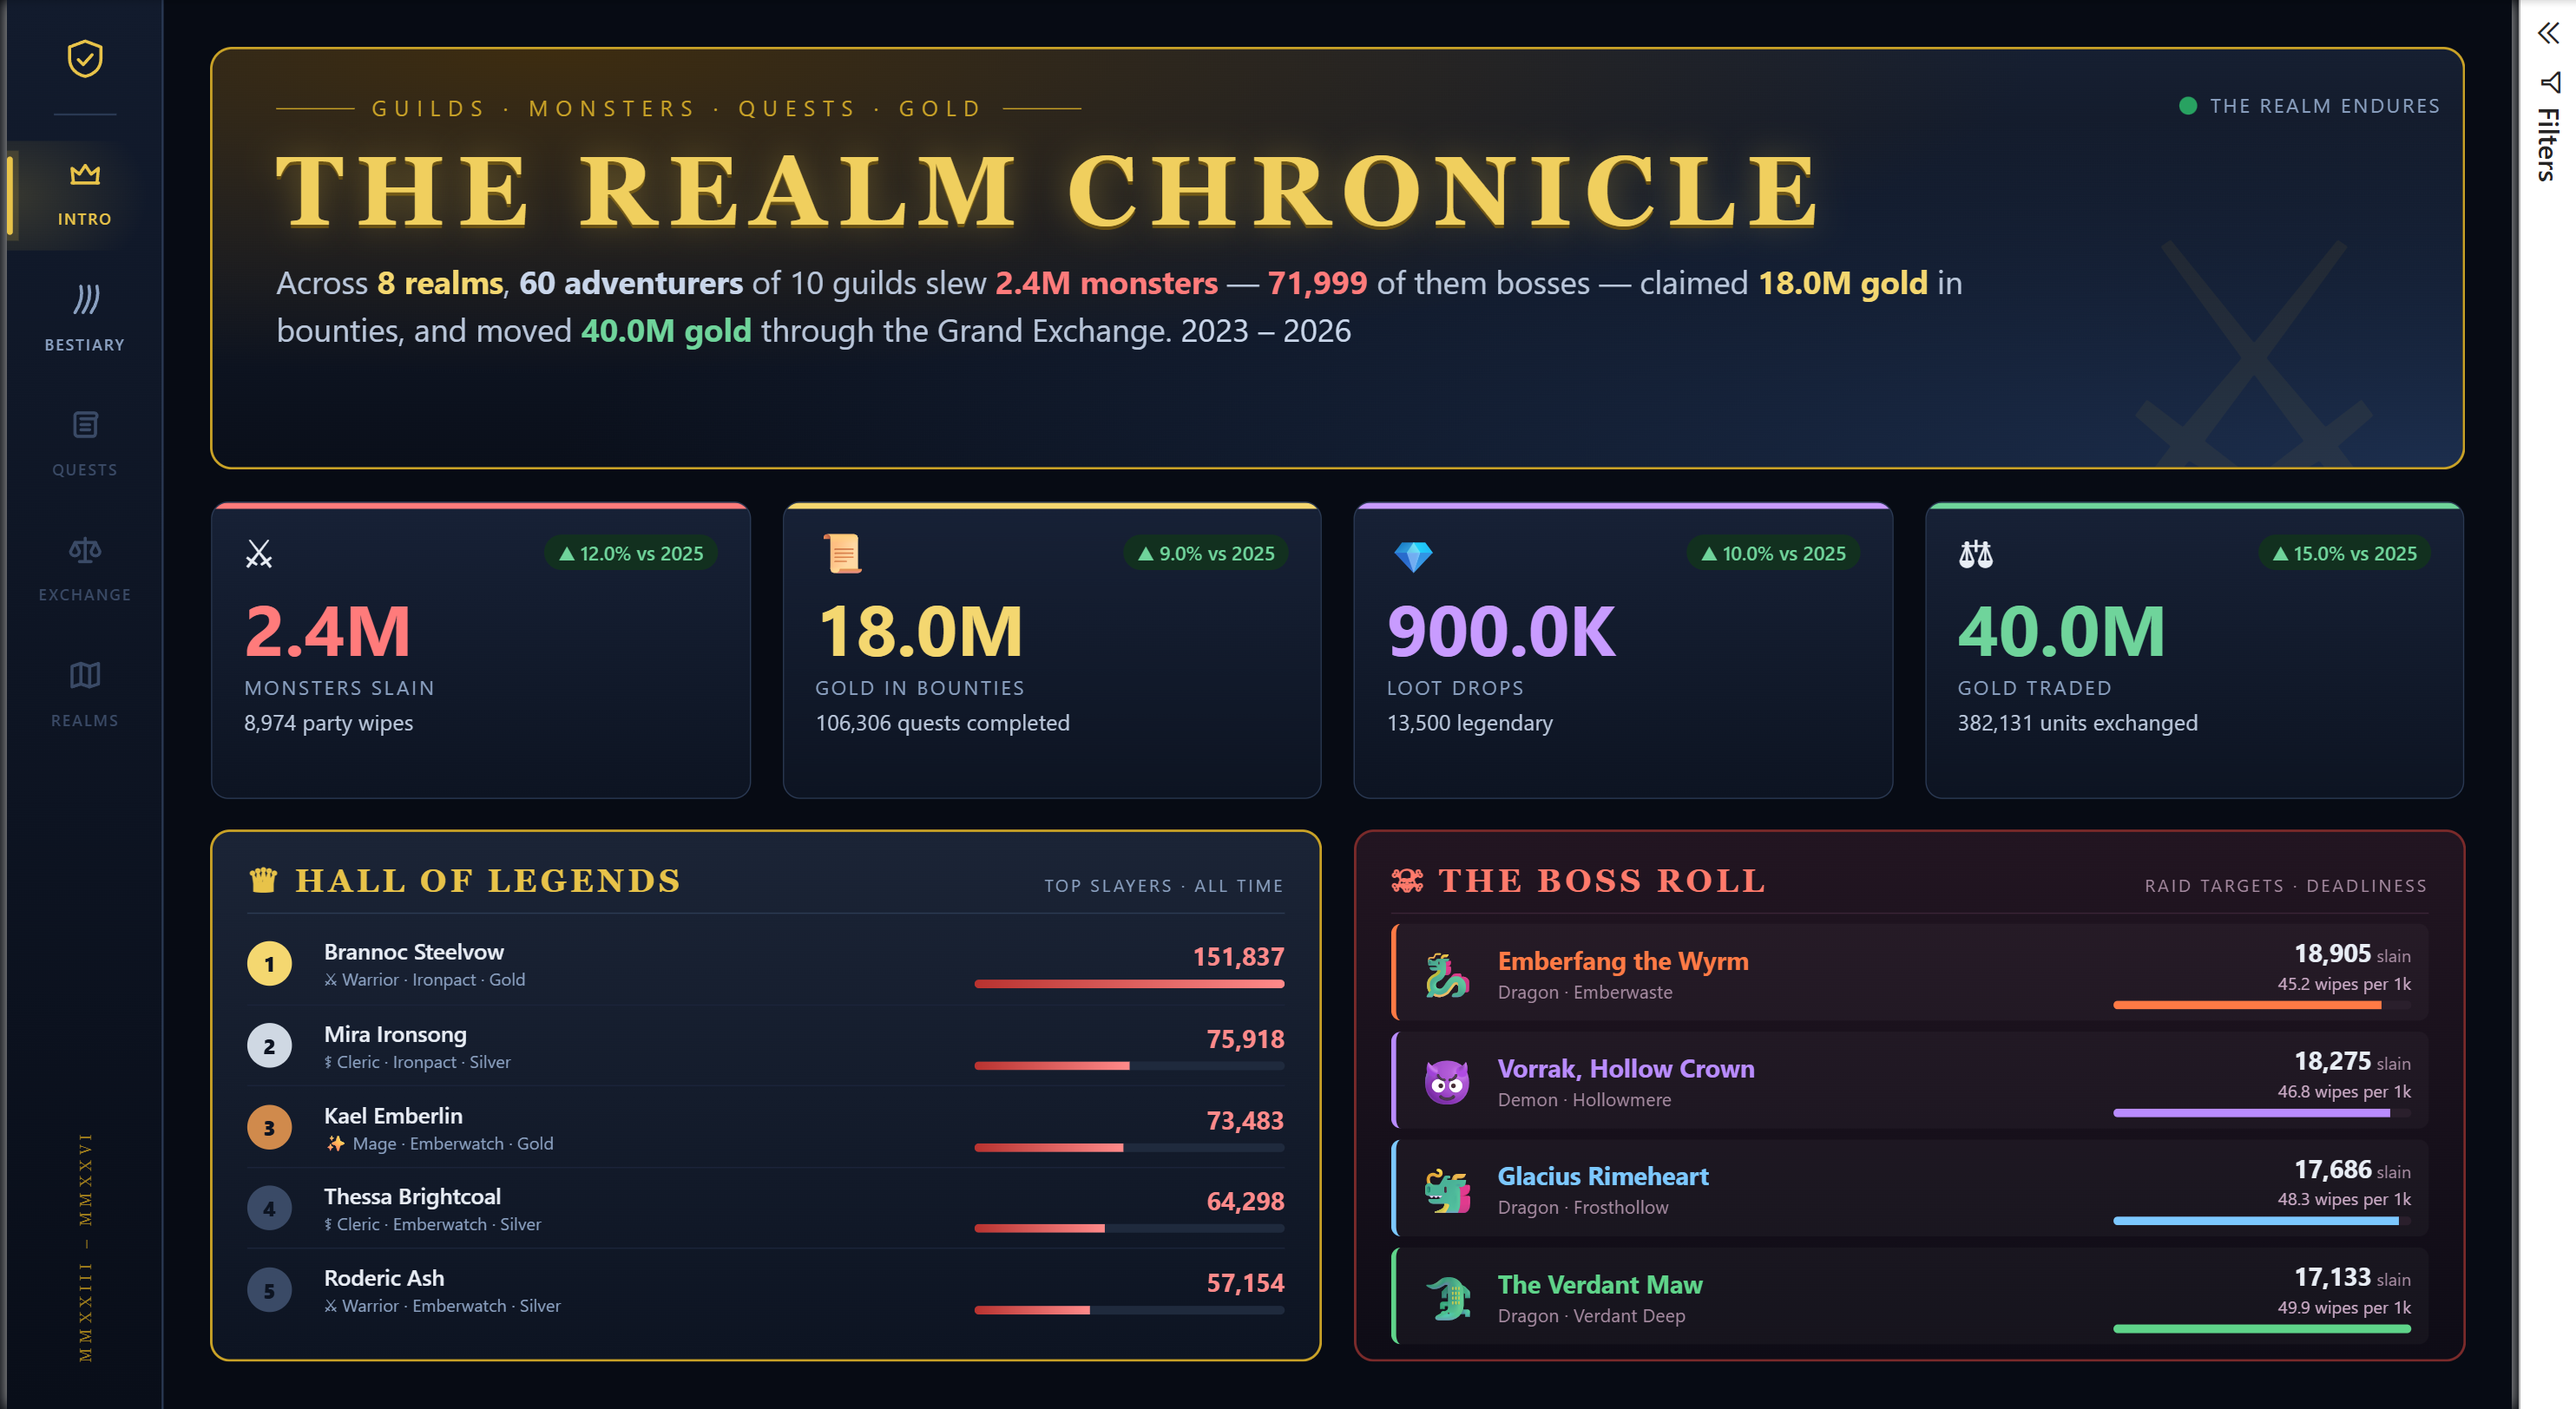
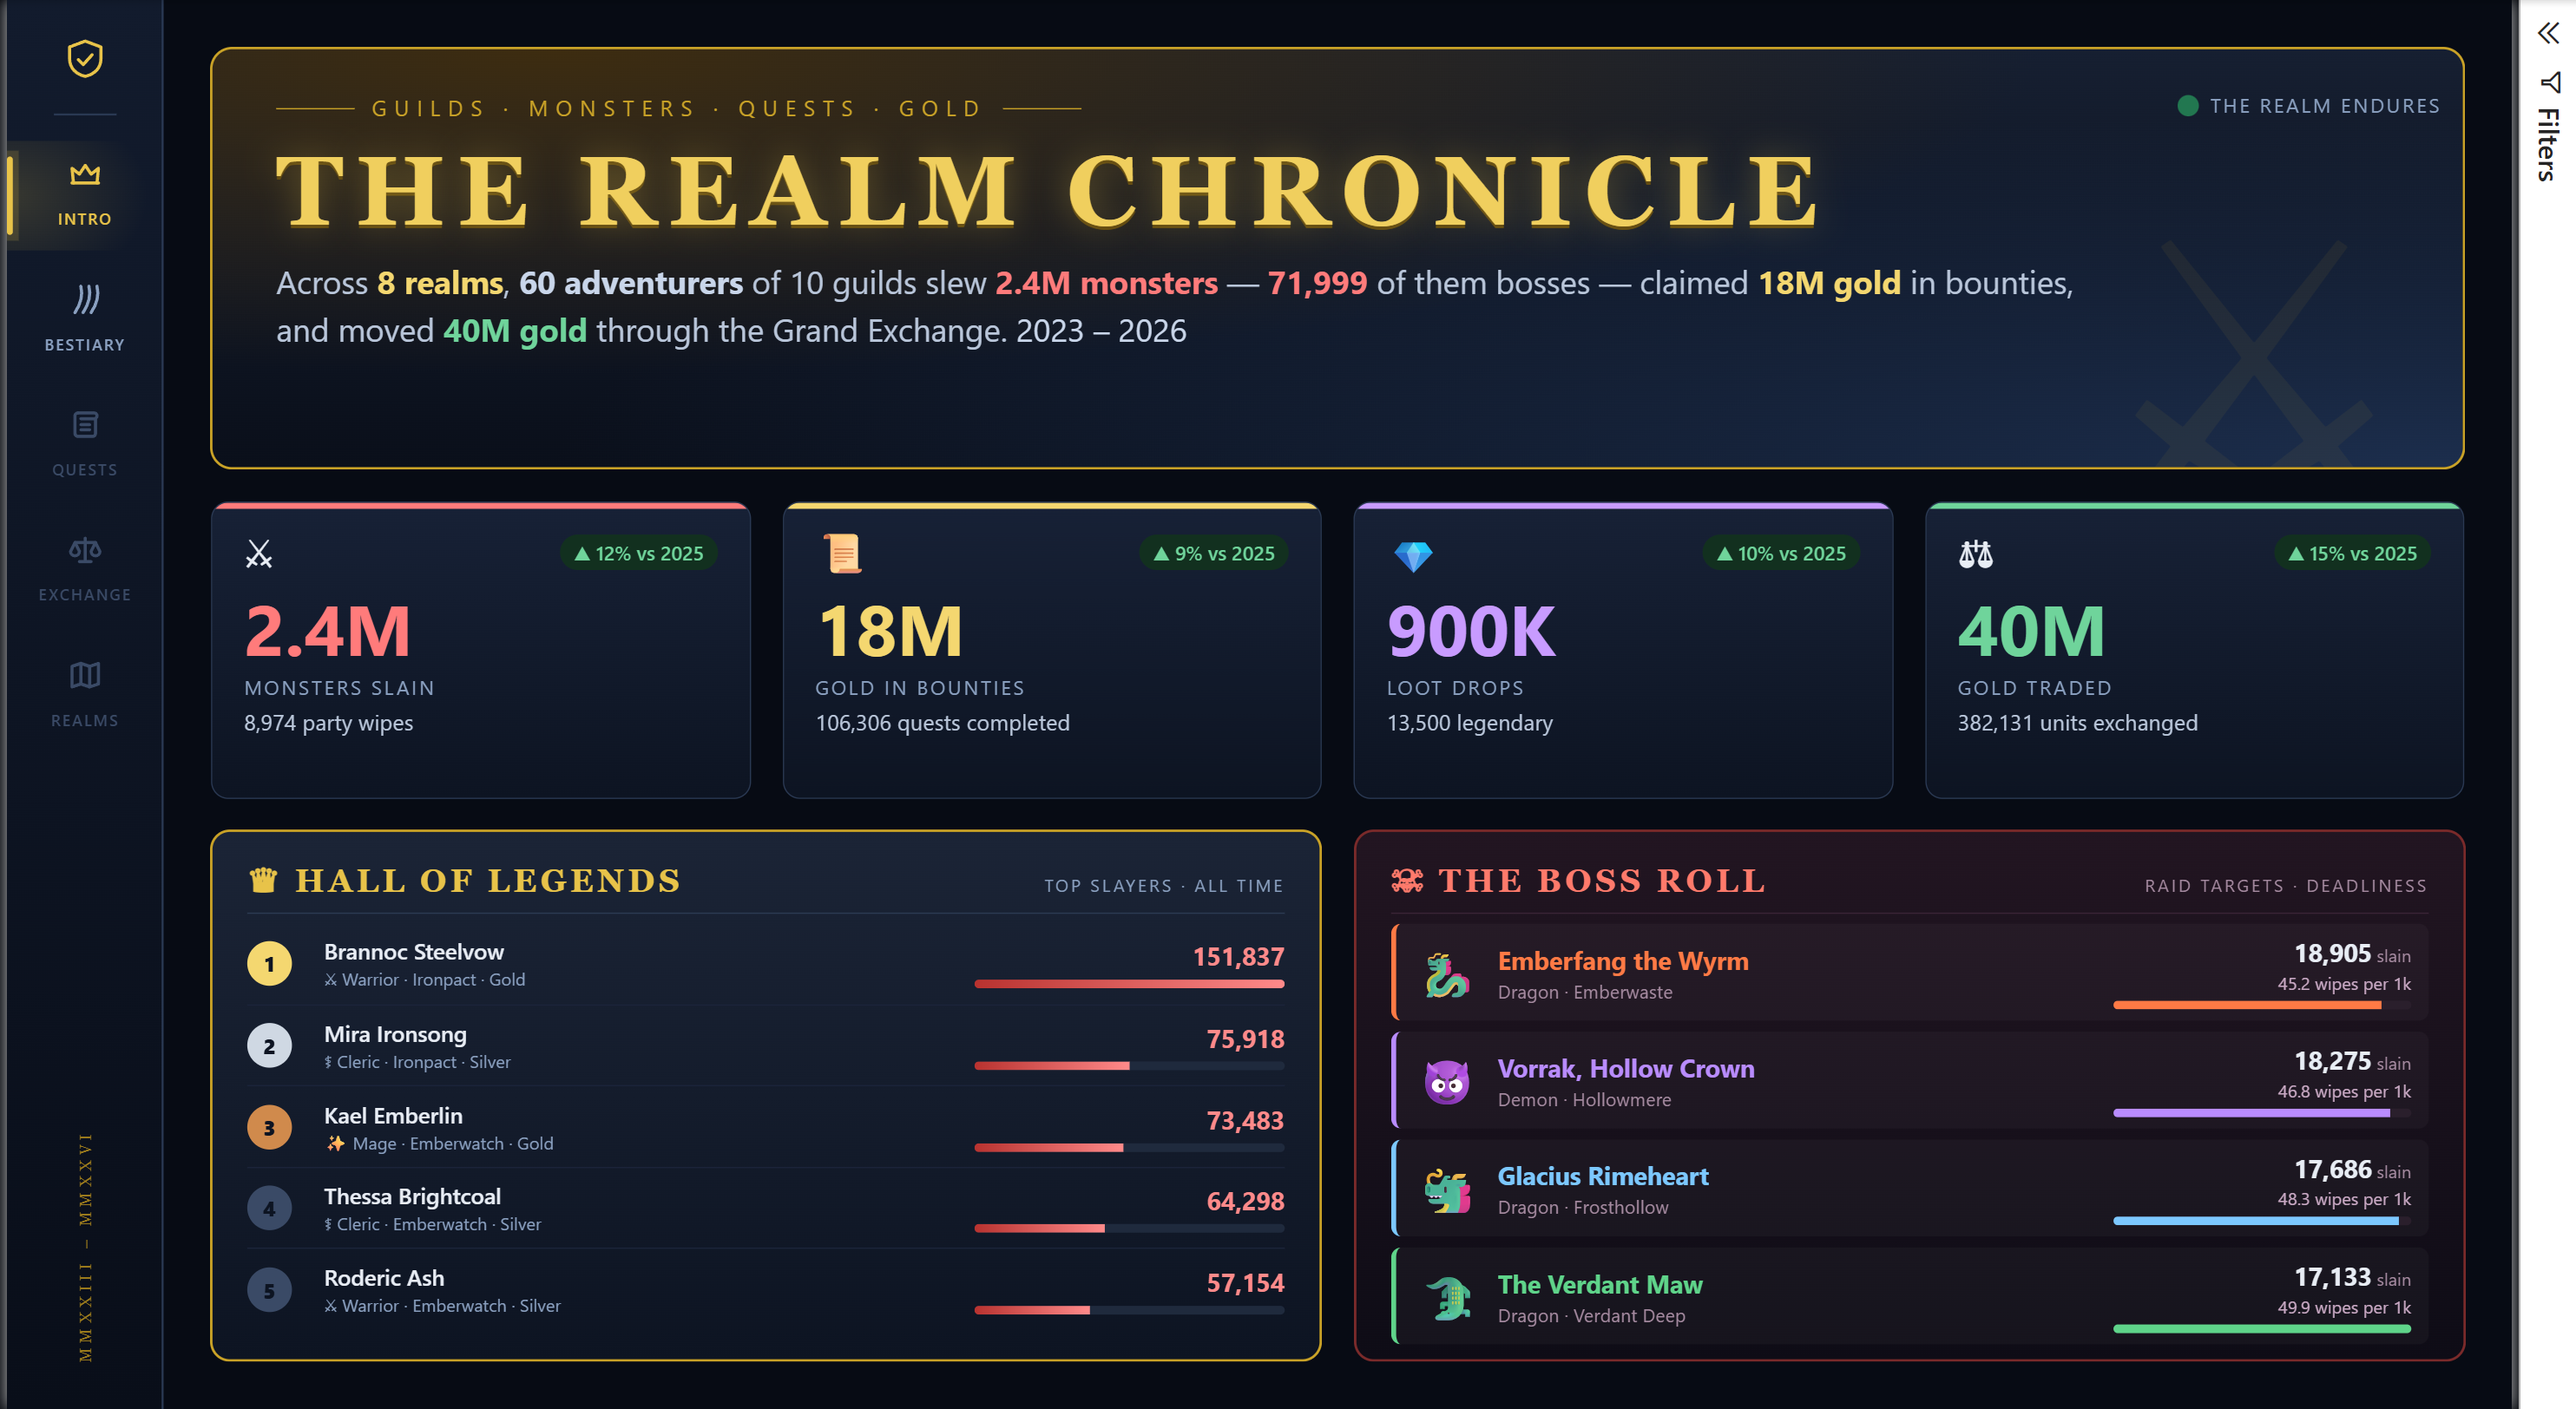
realm-chronicle: compact numbers without the meaningless .0
"900.0K" and "18.0M" read as noise. One rule, one helper (_tidy in
html_measures.py), used by every panel - hero sentence, ledger tiles, growth
chips, Bestiary header:
- a trailing .0 is dropped:   900.0K -> 900K, 18.0M -> 18M, 12.0% -> 12%
- a real decimal under 100 stays:  2.4M, 12.5%
- from 100 up in the unit it is whole:  136.8K -> 137K

The hero previously formatted its figures inline with "0.0"; it now goes
through the same helper, so no panel can drift from the rule.

Checked against the real totals before building and in the render after:
2.4M / 18M / 900K / 40M, chips 12% / 9% / 10% / 15%, Bestiary 2M / 360K / 72K.
Gate: pbir validate Valid, validate_pbip 0/0, lint-tmdl-traps clean.

diff --git a/power-bi/projects/realm-chronicle/build/html_measures.py b/power-bi/projects/realm-chronicle/build/html_measures.py
@@ -53,9 +53,18 @@ def _svg_open(w, h, rw, rh):
     ]
 
 
+def _tidy(e, pattern_one, pattern_whole):
+    """A number in a unit, without a meaningless trailing '.0': 900 not 900.0, 2.4 stays 2.4.
+    From 100 up in the unit it's whole (137K, not 136.8K) - a decimal there is noise."""
+    return (f'IF ( {e} >= 100, FORMAT ( {e}, "{pattern_whole}" ), '
+            f'IF ( ROUND ( {e}, 1 ) = INT ( ROUND ( {e}, 1 ) ), FORMAT ( ROUND ( {e}, 1 ), "{pattern_whole}" ), '
+            f'FORMAT ( {e}, "{pattern_one}" ) ) )')
+
+
 def _compact(v):
-    return (f'IF ( {v} >= 1000000, FORMAT ( {v} / 1000000, "0.0" ) & "M", '
-            f'IF ( {v} >= 1000, FORMAT ( {v} / 1000, "0.0" ) & "K", FORMAT ( {v}, "#,0" ) ) )')
+    """Compact figure: 2.4M, 18M, 900K, 137K, 950. One home for the rule - every panel uses it."""
+    return (f'IF ( {v} >= 1000000, {_tidy(v + " / 1000000", "0.0", "0")} & "M", '
+            f'IF ( {v} >= 1000, {_tidy(v + " / 1000", "0.0", "0")} & "K", FORMAT ( {v}, "#,0" ) ) )')
 
 
 def _yoy(m):
@@ -65,7 +74,7 @@ def _yoy(m):
 
 def _chip(g):
     return (f'IF ( ISBLANK ( {g} ), "", IF ( {g} >= 0, "<span class=\'ch\'>&#9650; ", '
-            f'"<span class=\'ch dn\'>&#9660; " ) & FORMAT ( ABS ( {g} ), "0.0%" ) & " vs " & _y0 & "</span>" )')
+            f'"<span class=\'ch dn\'>&#9660; " ) & {_tidy("ABS ( " + g + " ) * 100", "0.0", "0")} & "% vs " & _y0 & "</span>" )')
 
 
 def hero(w, h):
@@ -84,10 +93,10 @@ def hero(w, h):
      'VAR _heroes = COUNTROWS ( DimAdventurer )',
      'VAR _y0 = MIN ( DimDate[Year] )',
      'VAR _y1 = MAX ( DimDate[Year] )',
-     'VAR _fSlain = FORMAT ( _slain / 1000000, "0.0" ) & "M"',
+     f'VAR _fSlain = {_compact("_slain")}',
      'VAR _fBoss = FORMAT ( _boss, "#,0" )',
-     'VAR _fBounty = FORMAT ( _bounty / 1000000, "0.0" ) & "M"',
-     'VAR _fTrade = FORMAT ( _trade / 1000000, "0.0" ) & "M"',
+     f'VAR _fBounty = {_compact("_bounty")}',
+     f'VAR _fTrade = {_compact("_trade")}',
      'RETURN',
      *_svg_open(w, h, rw, rh),
      "    \"<div xmlns='http://www.w3.org/1999/xhtml' class='h'>\" &",
